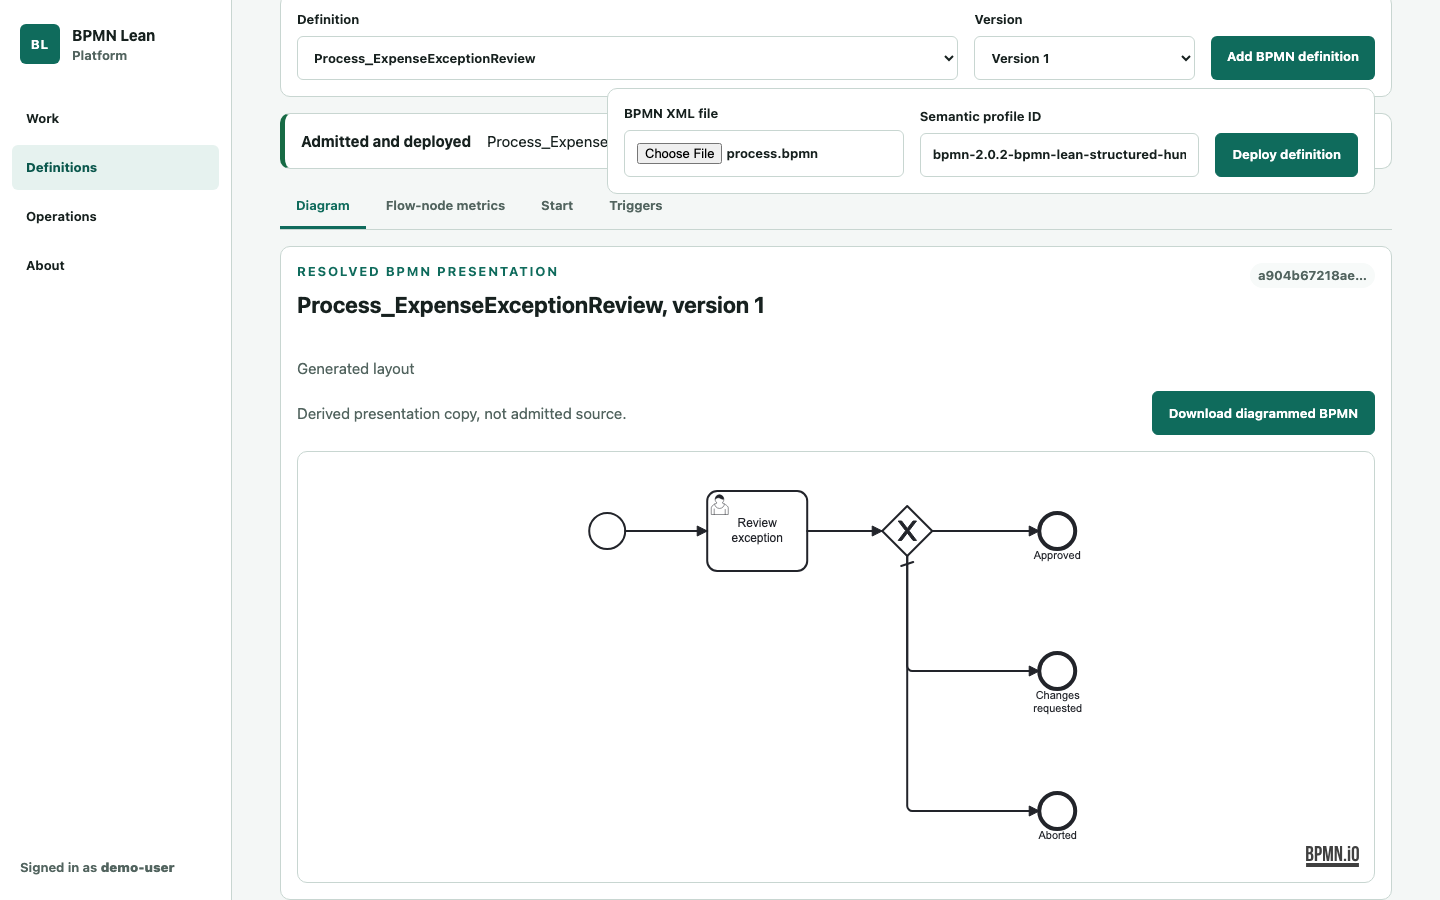
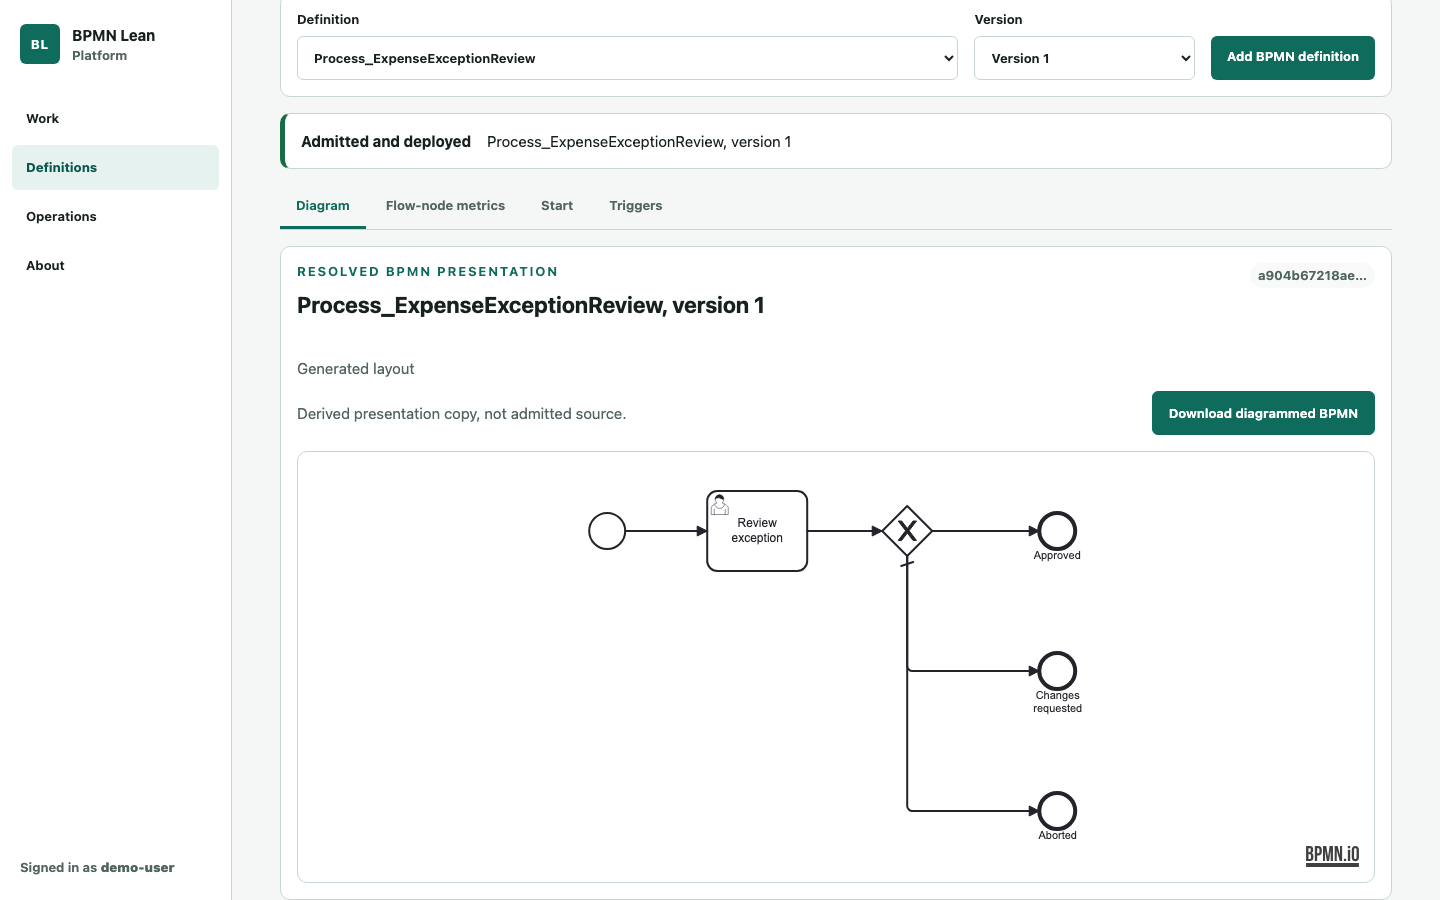
fix(demo): present the deployed diagram unobstructed
Collapse the deployment panel before capturing the maintained walkthrough so the fallback frame shows the resolved BPMN workspace without authoring controls obscuring it.

Changed region(s): [[0.4062, 0.0933, 0.625, 0.2178], [0.625, 0.1244, 0.8125, 0.2178], [0.8438, 0.1244, 0.9688, 0.2178]]

diff --git a/showcase/platform-browser-walkthrough/e2e/browser-walkthrough.spec.ts b/showcase/platform-browser-walkthrough/e2e/browser-walkthrough.spec.ts
@@ -50,6 +50,8 @@ test("captures the ordered text-first platform walkthrough landmarks", async ({ 
 
   await navigate(page, "Definitions");
   await deployDefinition(page, expenseBpmnPath, expenseProfile, expenseProcessId, "1");
+  await page.getByText("Add BPMN definition", { exact: true }).click();
+  await expect(page.getByLabel("BPMN XML file")).toBeHidden();
   const expenseDiagram = page.getByRole("region", {
     name: `Complete diagram workspace for ${expenseProcessId}, version 1`,
   });
